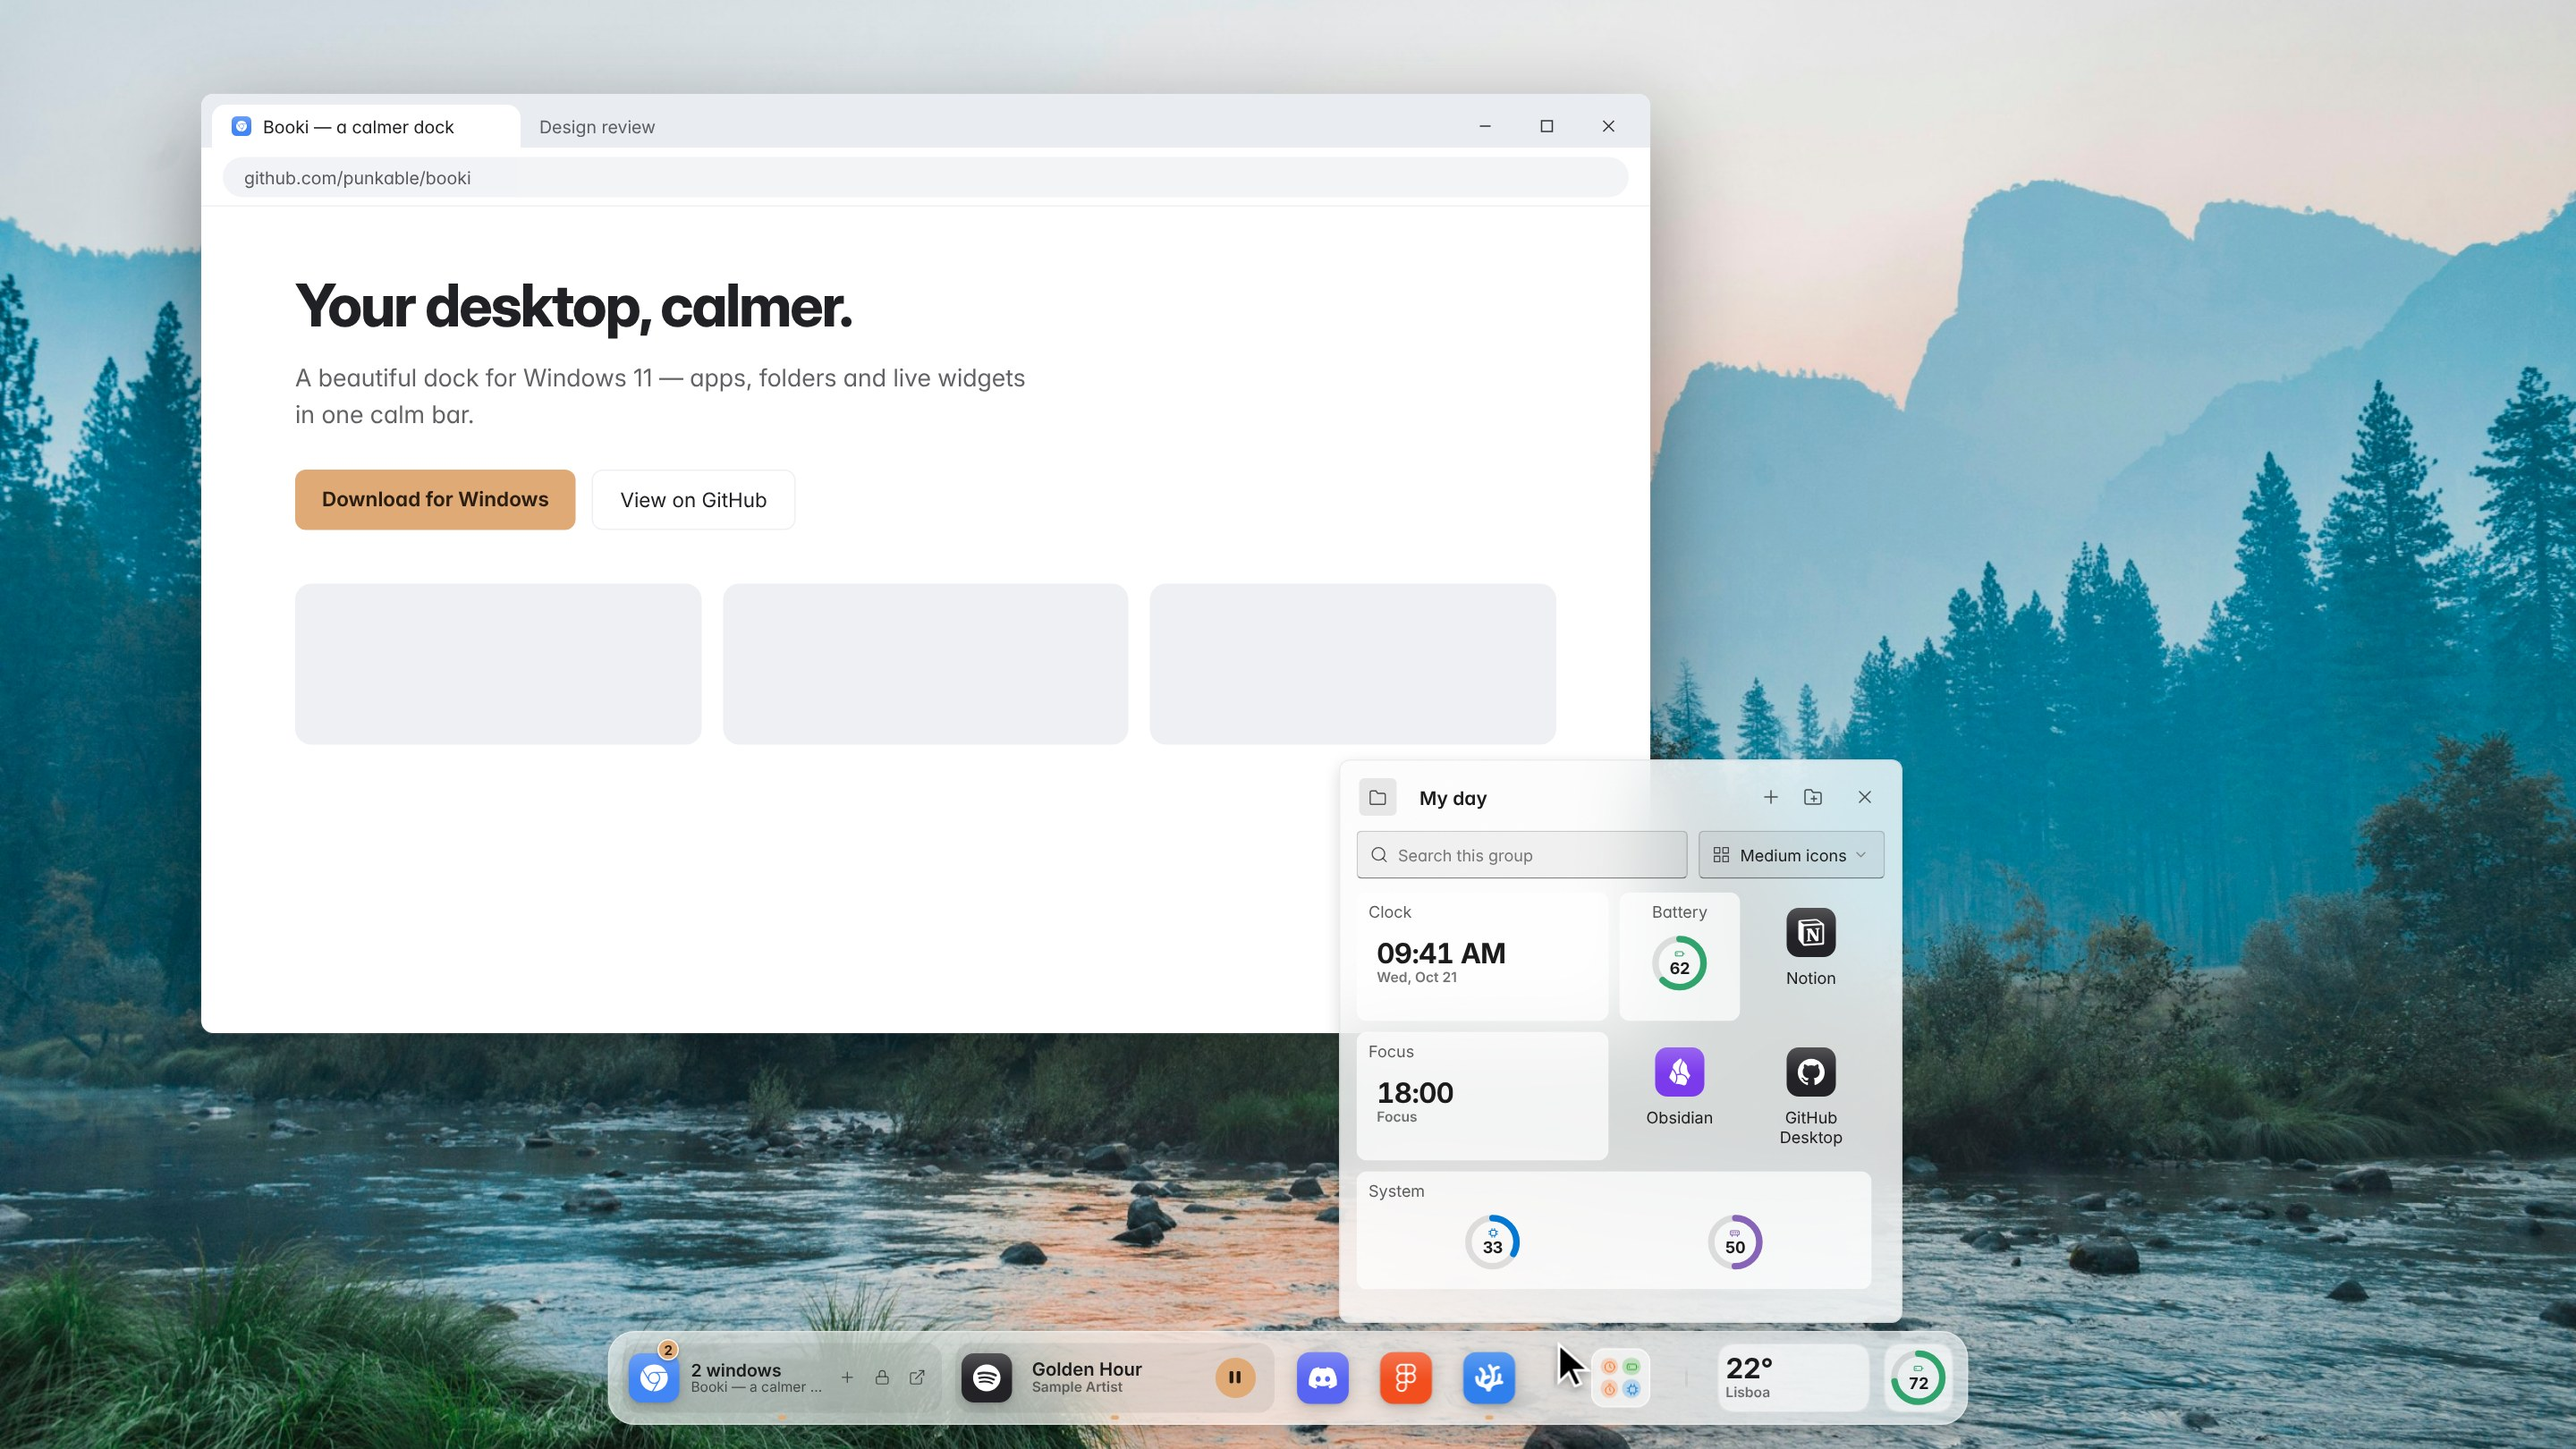
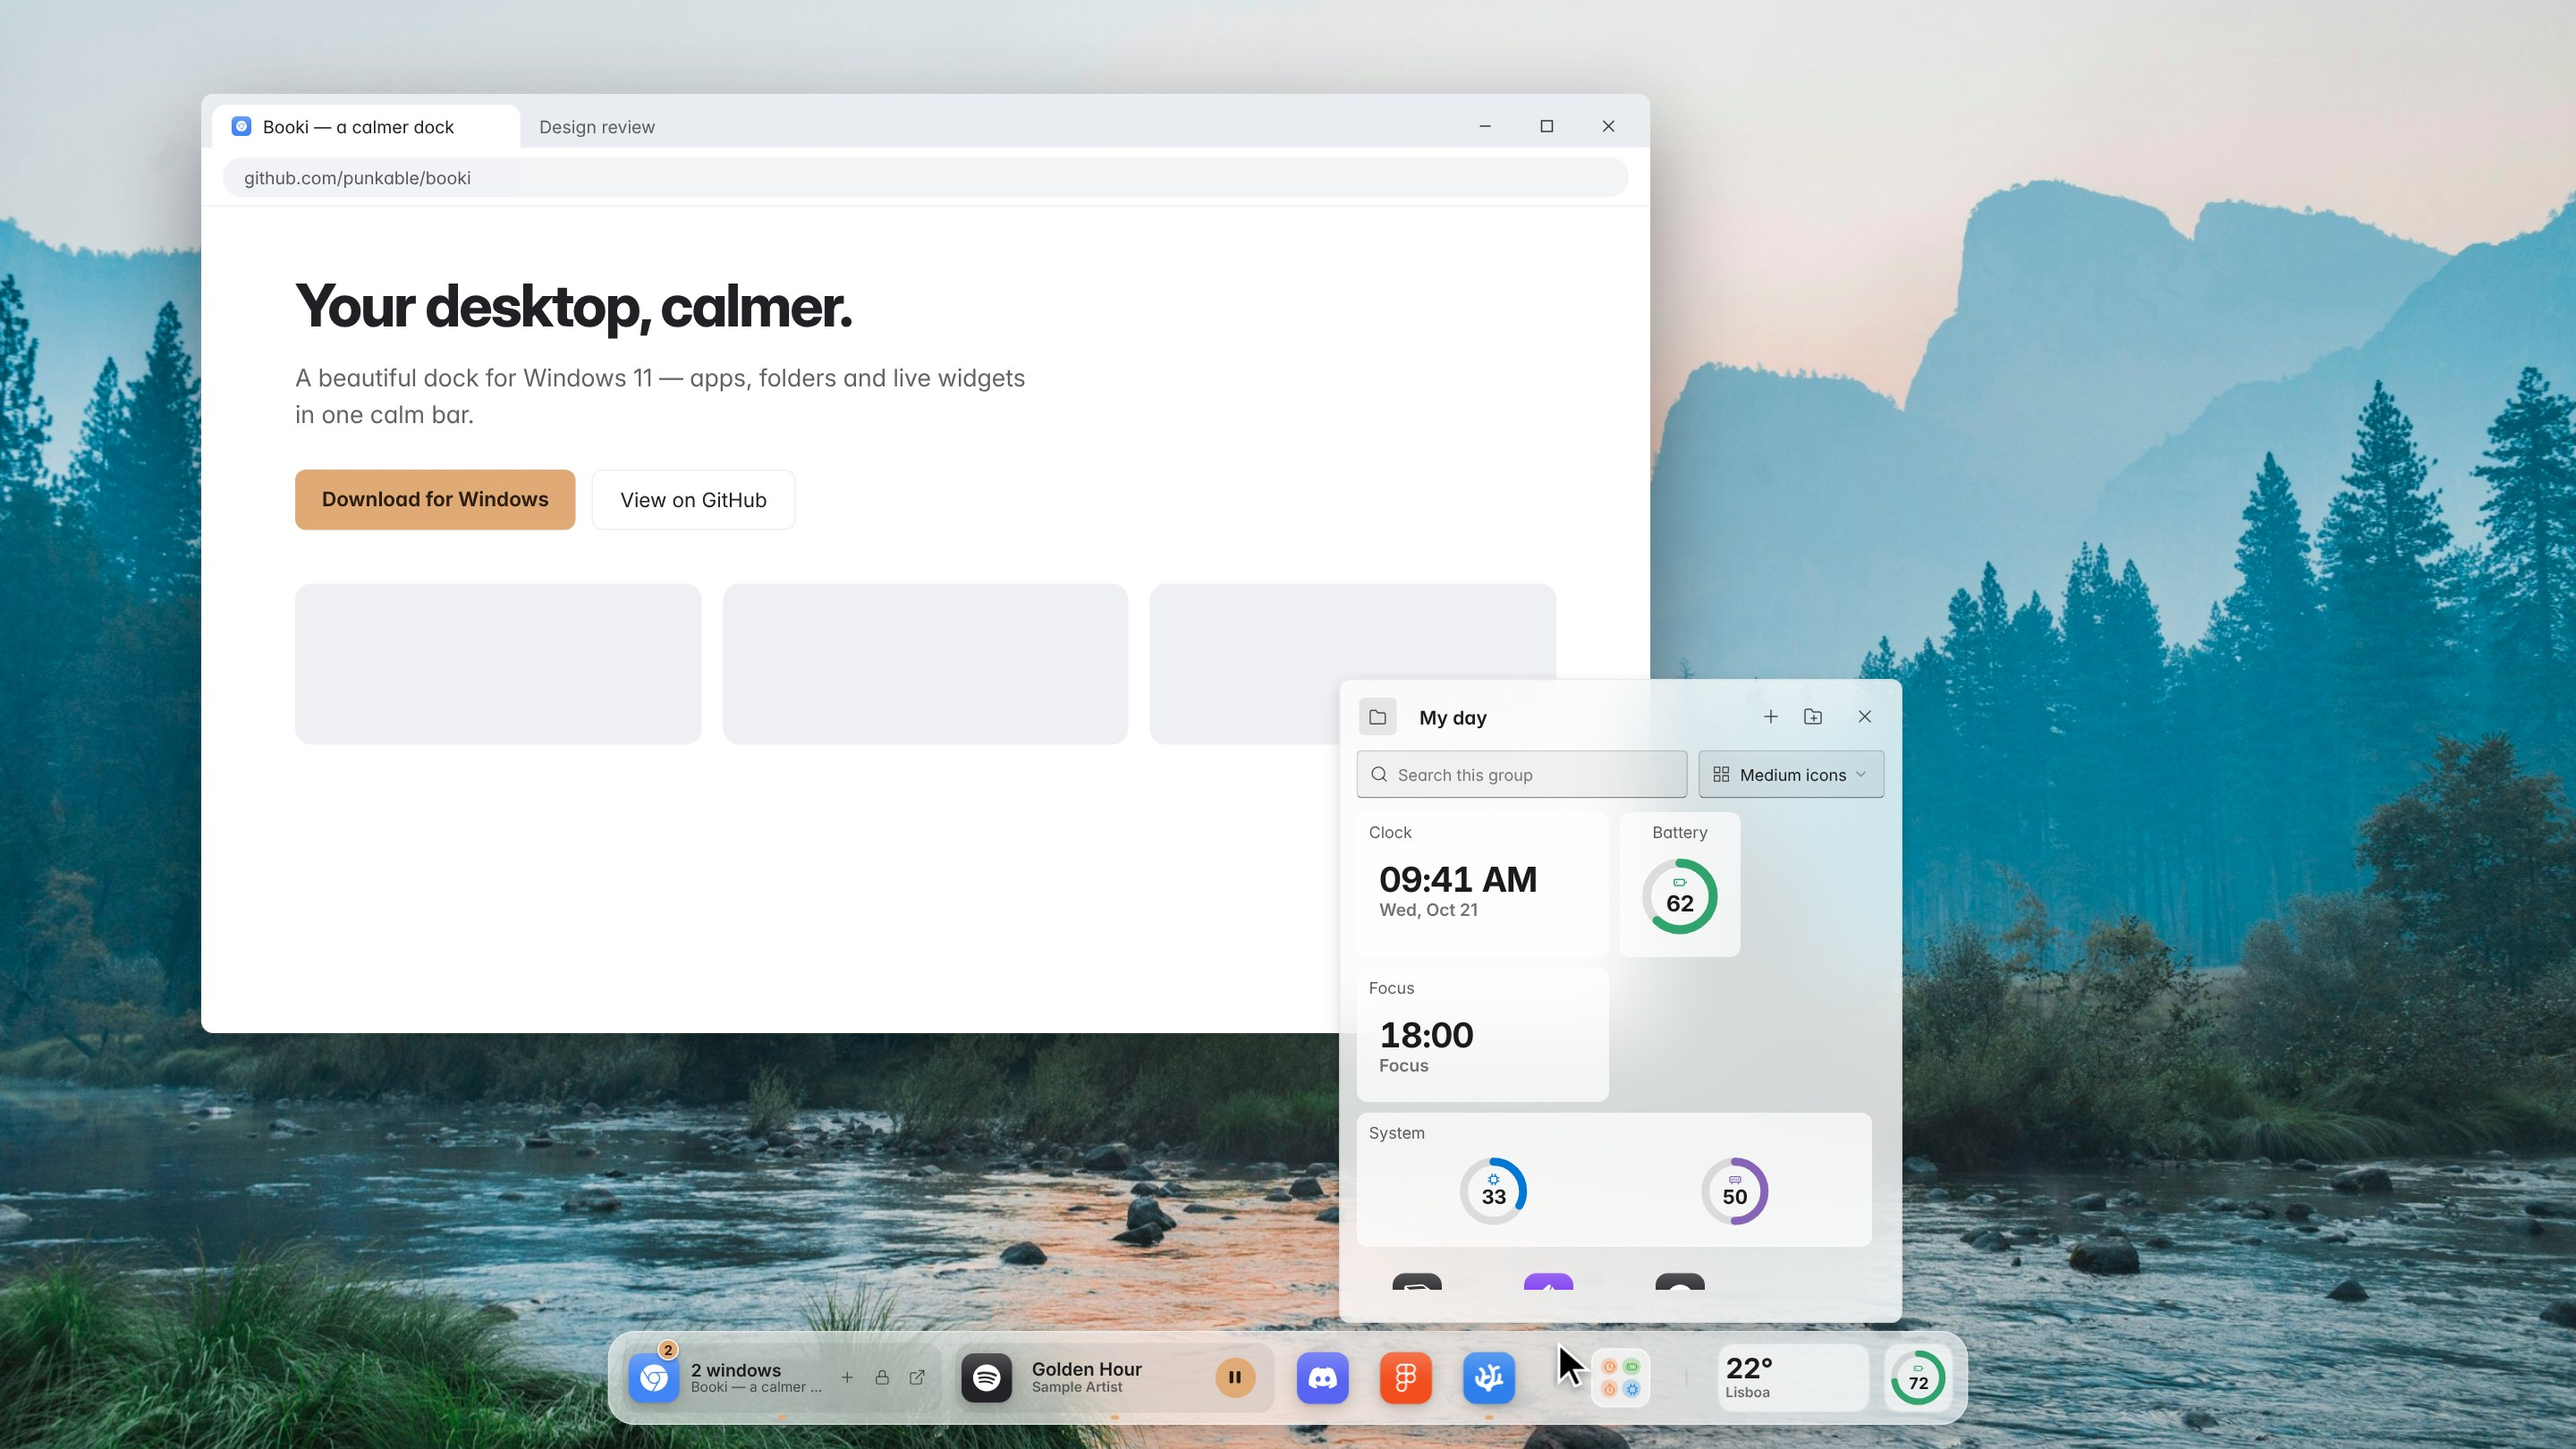
README: realistic desktop hero, widget board and app card sections, social images
Claude-Session: https://claude.ai/code/session_01S5MCw9nrB2b1MMCMuDgKBJ

Changed region(s): [[0.5312, 0.463, 0.75, 0.8951], [0.5312, 0.5247, 0.5938, 0.5556], [0.5312, 0.8642, 0.5625, 0.8951]]

diff --git a/README.md b/README.md
@@ -4,9 +4,9 @@
 
 <h1 align="center">Booki</h1>
 
-<h3 align="center">Your desktop, calmer.</h3>
+<h3 align="center">Your dock, finally alive.</h3>
 
-<p align="center">A beautiful dock for Windows 11 — apps, folders and live widgets in one calm bar.<br/>Free, private and open source.</p>
+<p align="center">A beautiful dock for Windows 11. Your apps, groups and live widgets in one calm bar:<br/>the song that's playing, your open windows and your day, right where your apps are.<br/>Free, private and open source.</p>
 
 <!-- booki:download:start -->
 <p align="center">
@@ -24,7 +24,7 @@
   <a href="LICENSE"><img src="https://img.shields.io/badge/license-MIT-lightgrey?style=flat-square" alt="MIT license" /></a>
 </p>
 
-<p align="center"><img src="docs/presentation/hero-en.jpg" width="1000" alt="Booki dock with example apps, a group, clock, system readings, focus timer and Collector" /></p>
+<p align="center"><img src="docs/presentation/hero-real-en.jpg" width="1000" alt="Booki on a Windows desktop: the dock with a browser and music player shown as live cards and an open group with clock, battery, focus and system widgets" /></p>
 
 <table align="center">
 <tr>
@@ -39,9 +39,23 @@
 
 ---
 
+<h2 align="center">Groups that work like a widget board.</h2>
+
+<p align="center">Put widgets and apps in the same group and it opens like the Windows Widgets board:<br/>live cards in three sizes, apps beside them, in whatever order you drag them.</p>
+
+<p align="center"><img src="docs/presentation/desk-hub.jpg" width="1000" alt="An open Booki group over a browser window: clock, battery, focus timer and system cards next to Notion, Obsidian and GitHub Desktop" /></p>
+
+<h2 align="center">Apps that show what they're doing.</h2>
+
+<p align="center">Turn a pinned app into a live card: your music player shows the song and its controls,<br/>your browser how many windows are open with a button for a new or private one.</p>
+
+<p align="center"><img src="docs/presentation/desk-dark.jpg" width="1000" alt="A dark Booki dock over a code editor: browser card with two windows, music card playing, clock, system and focus widgets" /></p>
+
 <h2 align="center">Smooth at any refresh rate.</h2>
 
 <p align="center">Icons grow under your pointer with time-based motion: just as quick at 60, 144 or 240 Hz, only smoother on faster screens, with no overshoot.<br/>Pick glass (Windows 11 acrylic, light or dark), the taskbar's own look, or solid.</p>
+
+<p align="center"><img src="docs/presentation/hero-en.jpg" width="1000" alt="Booki dock with example apps, a group, clock, system readings, focus timer and Collector" /></p>
 
 <p align="center"><img src="docs/presentation/clip-magnify.webp" width="900" alt="The pointer moves along the Booki dock and the icons grow and settle under it" /></p>
 
@@ -188,7 +202,7 @@ npm run tauri:build  # Windows packages
 
 UI changes follow the [visual identity and design system](docs/brand/README.md).
 
-README images and clips are recorded from the real frontend with sample data by [tools/presentation](tools/presentation/README.md) (`stills.mjs`, `clips.mjs`); finished media live in `docs/presentation/`.
+README images and clips are recorded from the real frontend with sample data by [tools/presentation](tools/presentation/README.md) (`stills.mjs`, `clips.mjs`, `desktop.mjs`); finished media live in `docs/presentation/`. Desktop wallpapers are photos from [Unsplash](https://unsplash.com) (Unsplash License); app marks come from [Simple Icons](https://simpleicons.org) and belong to their owners. They illustrate apps Booki can pin and do not imply endorsement.
 
 To audit the current public release without running its installers:
 

diff --git a/tools/presentation/README.md b/tools/presentation/README.md
@@ -23,6 +23,10 @@ For an approved release, first update versions and changelog, then run `npm run 
 
 `stills.mjs` captures the dock, the agent notch and Settings at 3×, then lays those captures into 1920×1080 compositions. It checks for JavaScript errors and overflowing headings. Temporary UI pieces live in ignored `public/stills/`. `BOOKI_CHROMIUM` reuses an installed browser. Do not overwrite the current README images with historical film poster frames.
 
+## Realistic desktop and social images
+
+`desktop.mjs` runs the real built dock over an Unsplash photo wallpaper (Unsplash License, downloaded into the ignored `public/stills/` at capture time) with mock app windows behind it and brand icons from Simple Icons (CC0 data; the marks belong to their owners). It writes `desk-hub.jpg`, `desk-dark.jpg`, the laptop hero `hero-real-{en,es}.jpg` and social formats `social-square-*` (1080×1080) and `social-story-*` (1080×1350). Run `npm run build` at the root, then `node tools/presentation/desktop.mjs`.
+
 ## Film scenes
 
 | # | Scene | Poster frame |

diff --git a/docs/design/app-widgets-plan.md b/docs/design/app-widgets-plan.md
@@ -19,10 +19,10 @@ Agreed with the owner; to start once the 1.0 audit and stability work is done.
 - **Browser:** count and list of open windows with their active tab, switch
   between them, new / private window. Real tab lists would need an extension;
   not planned.
-- **Calendar / Outlook:** day and next event through the Windows calendar
+- **Calendar / Outlook:** postponed: reading events needs package identity (Store or a signed sparse package). Until then the card shows the date. Originally: day and next event through the Windows calendar
   permission, asked when the widget is turned on; without it, only the date.
   The standalone Calendar widget merges into this.
-- **Badges:** optional notification access (UserNotificationListener) to
+- **Badges:** postponed for the same reason (package identity). Originally: optional notification access (UserNotificationListener) to
   count notifications per app. Never read or store their text.
 
 ## System widgets (one widget each)
